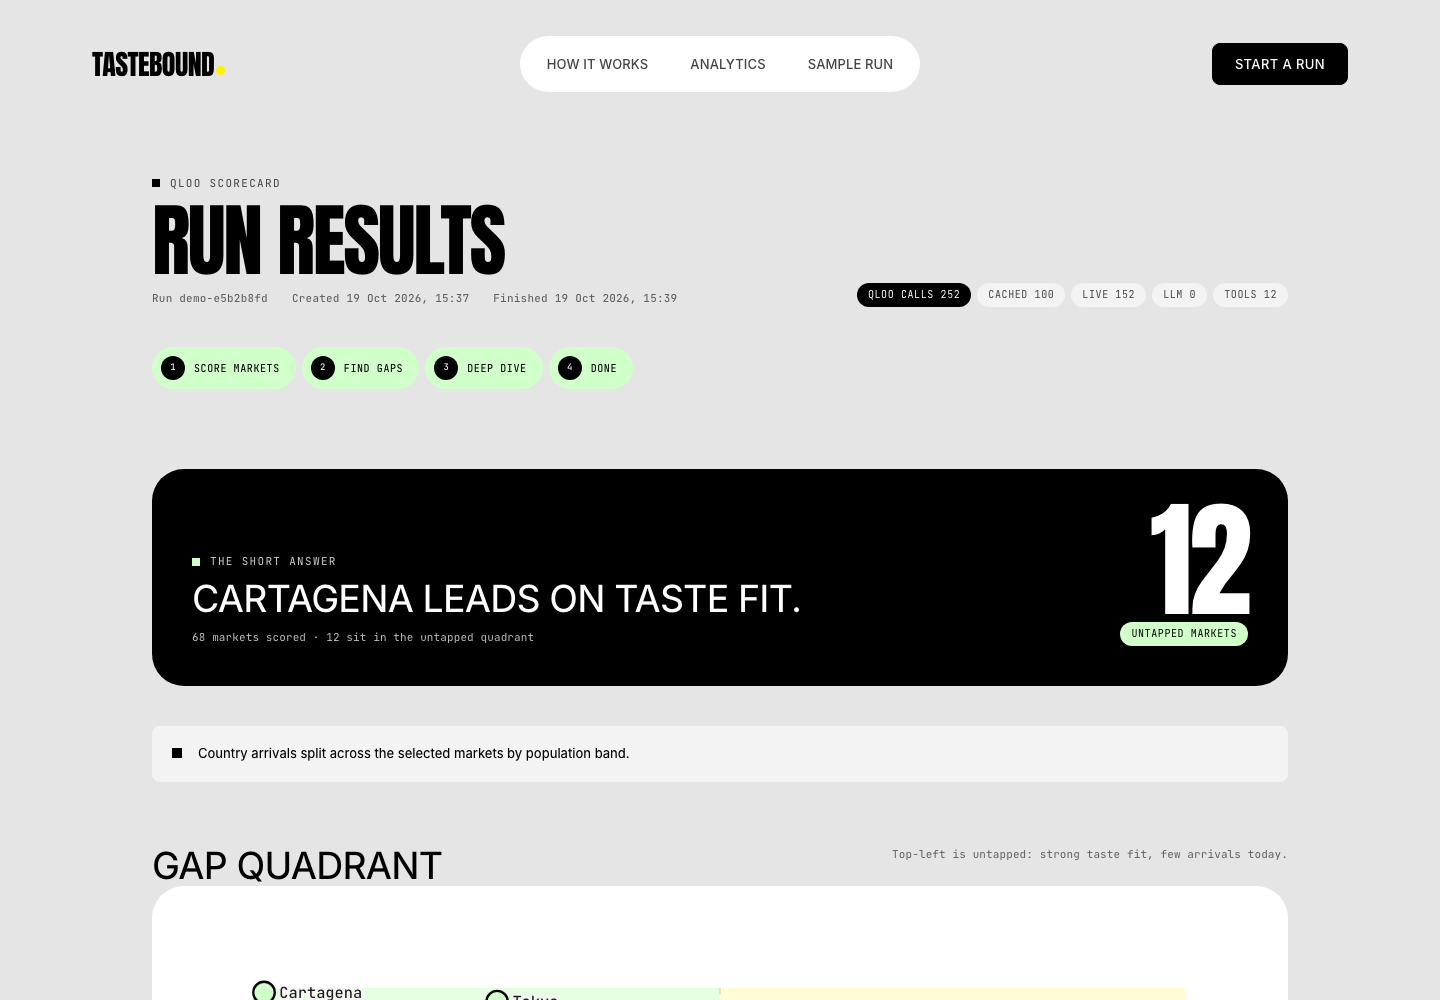
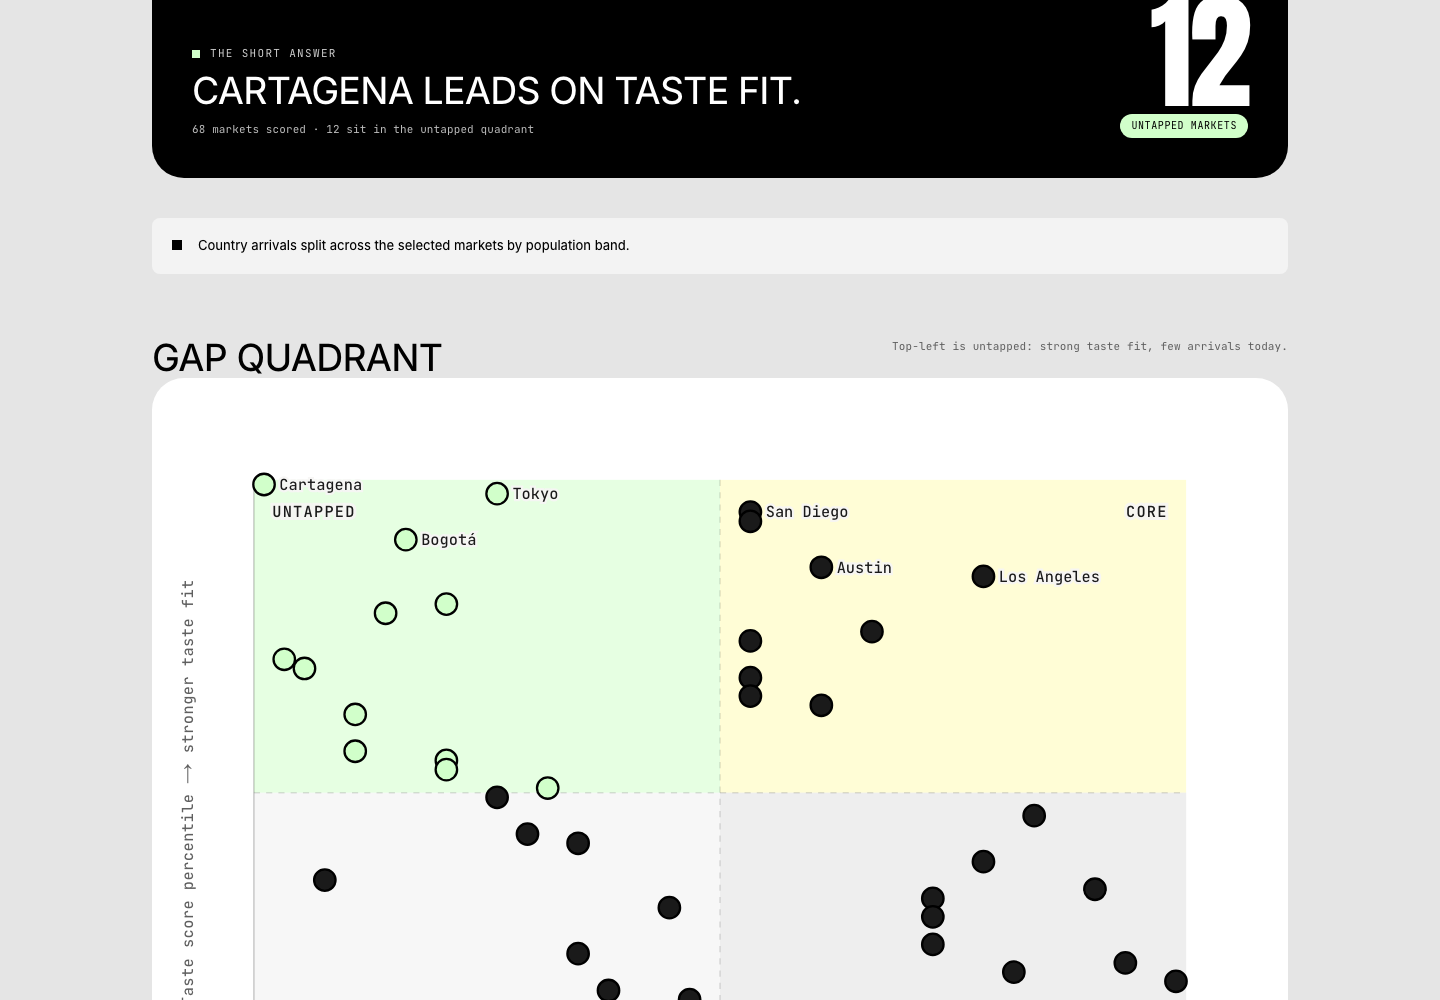
docs: refresh README hero and proof screenshots [SUB]

diff --git a/README.md b/README.md
@@ -1,58 +1,72 @@
 <p align="center">
-  <img src="assets/readme/hero.svg" alt="TasteBound — find the markets that already share your taste. A gap quadrant shows Cartagena as the top untapped market." width="900">
+  <img src="assets/readme/hero.svg" alt="TasteBound — find the markets that already share your taste. A Lisbon demo card shows Cartagena, Tokyo and Bogotá in the untapped quadrant." width="900">
 </p>
 
-**TasteBound** builds a Qloo taste profile for a destination, scores origin markets by **taste lift over a popularity baseline**, compares that with your **real visitor arrivals** — and shows you the **untapped markets** that already love what the destination offers but are not visiting yet. For each market it produces audiences, a campaign angle with evidence, media partners and a budget split.
+<p align="center">
+  <sub><strong>Qloo Agentic Hackathon 2026</strong> · Next.js · FastAPI · Supabase · Ollama Cloud · MIT</sub>
+</p>
 
-Every score, gap, audience and partner comes from Qloo through deterministic code; the LLM proposes item names and writes briefs that must pass a grounding validator, and every fallback is labelled. Every number links back to the Qloo call that produced it.
+**TasteBound** finds the origin markets that already share a destination's taste but are not visiting yet. It builds a Qloo taste profile, scores every origin market by **taste lift over a popularity baseline**, subtracts **your visitor arrivals**, and turns the gap into audiences, campaign angles, media partners, a budget split and grounded briefs.
 
-Built for the **Qloo Agentic Hackathon 2026**. **Taste fit, not a visitor forecast** — no demand claims, no black boxes.
+**Taste fit, not a visitor forecast.** Qloo decides; the LLM narrates. Scores, gaps, audiences, angle evidence and partners are pure functions over Qloo responses. The LLM only proposes item names and writes prose that passes a grounding validator, and every fallback is labelled.
 
 <p align="center">
-  <a href="#quickstart">Quickstart</a> ·
+  <a href="#quickstart"><strong>Run the local sample</strong></a> ·
   <a href="docs/17-judging.md">Judging notes</a> ·
   <a href="docs/16-runbook.md">Runbook</a> ·
-  <a href="docs/DESIGN.md">Design</a>
+  <a href="docs/DESIGN.md">Design system</a>
 </p>
 
 ## The gap quadrant
 
 Taste score on one axis, arrivals share on the other. **Untapped** markets sit top-left: strong taste fit, few visitors today. Click any point to open the full market brief.
 
+**Sample run:** 68 markets scored, 12 in the untapped quadrant. Cartagena ranks #1 with a taste score of **99.26** and a **+98.2-point** arrivals gap.
+
 <p align="center">
-  <img src="assets/readme/02-results.png" alt="TasteBound run results: live Qloo call counter, phase progress, and the gap quadrant with Cartagena, Tokyo and Bogotá in the untapped quadrant." width="900">
+  <img src="assets/readme/02-results.png" alt="Gap quadrant for the Lisbon demo run. Cartagena, Tokyo and Bogotá sit in the untapped quadrant; San Diego, Austin and Los Angeles sit in core." width="900">
 </p>
 
 ## What a market gives you
 
-Taste score, lift, coverage and a plain-language confidence explainer; arrivals share, percentile and gap; an audience chart from Qloo demographics; a campaign angle where each claim carries an evidence chip; partner tabs; global brands.
+Taste score, lift, coverage and a plain-language confidence explainer; arrivals share, percentile and gap; a Qloo demographics audience chart; a campaign angle where each claim carries an evidence chip; partner tabs; global brands.
 
 <p align="center">
-  <img src="assets/readme/03-market.png" alt="Market detail for Cartagena: taste score 99.26, lift +0.0299, 100% coverage, high confidence, arrivals gap +98.2 points, and an audience chart." width="900">
+  <img src="assets/readme/03-market.png" alt="Cartagena market brief: taste score 99.26, lift +0.0299, 100% coverage, high confidence, an arrivals gap of +98.2 points, and a Qloo audience breakdown." width="900">
 </p>
 
 ## Plan the spend
 
-Split a budget across markets with locks; briefs are editable, labelled `template` or `model-written`, and export as Markdown. The whole run exports as CSV.
+Split a budget across markets with locks; each market's share is weighted by taste score, confidence and the untapped gap. Briefs are editable, labelled `template` or `model-written`, and export as Markdown. The full run exports as CSV.
 
 <p align="center">
-  <img src="assets/readme/04-plan.png" alt="Plan screen: budget input, mode toggle, per-market shares with locks, and editable briefs with evidence chips." width="900">
+  <img src="assets/readme/04-plan.png" alt="Budget and briefs screen: €250,000 allocated across six markets, with Cartagena receiving 24.05% and a per-market lock control." width="900">
+</p>
+
+## Audit every call
+
+Every run writes an ordered, timestamped trace of Qloo, tool and LLM rows, with parameters and cache status; every number links back to the Qloo calls that produced it. The stored demo is deterministic, so its 268 events are Qloo and tool calls; live runs record LLM rows when quota is available.
+
+<p align="center">
+  <img src="assets/readme/05-trace.png" alt="Trace audit log for the Lisbon demo: 252 Qloo calls, 16 tool calls, 0 LLM calls, 268 total events, with filterable rows showing build_profile and destination_search." width="900">
 </p>
 
 ## How it works
 
-1. **Profile** — you name a destination and add signature items (or let TasteBound suggest them from the website). Each item resolves to a real Qloo entity; unresolved items are listed, not hidden.
-2. **Score** — for each origin market, TasteBound fetches Qloo affinity for the destination's entity and its top explainability entities, then queries the same markets again **without** the destination signals to get a per-market baseline, and computes **lift = target affinity − baseline affinity**. The taste score is the percentile of lift across the run — a ranking, not a fake absolute.
-3. **Gap** — your arrivals CSV (or a bundled sample) is matched to markets; the gap quadrant and table compare taste percentile against arrivals percentile. Population correlation is checked and flagged when the ranking may track market size.
-4. **Deep dive** — audiences, angle evidence and media partners for the shortlist, then briefs and a budget split weighted by taste score, confidence and the untapped gap.
+1. **Profile** — name a destination and add its signature items, or let TasteBound suggest them from the official website. Each item resolves to a real Qloo entity; unresolved items are listed, not hidden.
+2. **Score** — for each origin market, fetch Qloo affinity for the destination's entity and its top explainability entities, then query the same markets again **without** the destination signals to get a per-market baseline. **Lift = target affinity − baseline affinity.** The taste score is the percentile of lift across the run — a ranking, not an absolute.
+3. **Gap** — match your arrivals CSV (or the bundled sample) to markets. The gap quadrant and table compare taste percentile against arrivals percentile. Population correlation is checked and flagged when the ranking may track market size.
+4. **Deep dive** — build audiences, angle evidence and media partners for the shortlist, then split a budget weighted by taste score, confidence and the untapped gap.
 
-Three rules above everything:
-
-1. **Qloo decides; the LLM narrates.** The LLM proposes item names and writes prose that passes a grounding validator; scores, gaps, audiences, angle evidence and partners are pure functions over Qloo responses.
-2. **Verify before building.** Every Qloo parameter and response field was recorded from live calls in Phase 0 (`docs/qloo-contract.md`), not guessed.
-3. **Fail closed.** Without Qloo the run fails with `qloo_unconfigured` and zero partial ranking — a tested feature, not an error path.
+> **Qloo decides; the LLM narrates.** Scores, gaps, audiences, angle evidence and partners are pure functions over Qloo responses. The LLM proposes item names and writes prose that passes a grounding validator.
+>
+> **Verify before building.** Every Qloo parameter and response field was recorded from live calls in Phase 0 (`docs/qloo-contract.md`), not guessed.
+>
+> **Fail closed.** Without Qloo the run fails with `qloo_unconfigured` and zero partial ranking — a tested feature, not an error path.
 
 ## Quickstart
+
+Requires Node 24+, pnpm, Python 3.12+ and uv, plus a Qloo key for live runs.
 
 ```bash
 pnpm install
@@ -60,7 +74,7 @@ pnpm install
 
 # apps/api/.env
 #   QLOO_API_KEY=...            # required for real runs
-#   OLLAMA_API_KEY=...          # optional; without it briefs are labelled templates
+#   OLLAMA_API_KEY=...          # optional; without quota, briefs stay labelled templates
 
 pnpm turbo dev                   # web :3000, api :8000 (SQLite, auto-migrated and seeded)
 ```
@@ -71,17 +85,18 @@ Key-by-key setup, run and deploy instructions: [`docs/19-setup.md`](docs/19-setu
 
 ```bash
 (cd apps/api && uv run pytest -m "not live")   # 48 tests, no network
-pnpm turbo lint test build
+pnpm turbo lint check-types build
 ```
 
 ## Project layout
 
 ```
-apps/api     FastAPI: Qloo client (rate limit, cache, budgets), scoring, arrivals, agent, HTTP API
-apps/web     Next.js: landing, 4-step wizard, results, market detail, plan, trace, sample
-packages/contracts   TypeScript types generated from the API's OpenAPI schema
-docs/        the full documentation pack (product, Qloo integration, API, tests, runbook)
-scripts/     smoke and accessibility checks (Playwright + axe)
+apps/api            FastAPI: Qloo client (rate limit, cache, budgets), scoring, arrivals, agent, HTTP API
+apps/web            Next.js: landing, 4-step wizard, results, market detail, plan, trace, sample
+packages/contracts  TypeScript types generated from the API's OpenAPI schema
+assets/readme       README hero and screenshots
+docs/               the full documentation pack (product, Qloo integration, API, tests, runbook)
+scripts/            screenshot, smoke and accessibility checks (Playwright + axe)
 ```
 
 ## Honest by default
@@ -94,22 +109,23 @@ scripts/     smoke and accessibility checks (Playwright + axe)
 
 ## Documentation
 
-| Start here | Then |
-|---|---|
-| [`docs/00-product-brief.md`](docs/00-product-brief.md) | Problem, users, value, metrics |
-| [`docs/04-qloo-integration.md`](docs/04-qloo-integration.md) | How Qloo is used: multi-call chain, strategies, baseline, budget, kill switch |
-| [`docs/05-agent-and-llm.md`](docs/05-agent-and-llm.md) | Agent tools, Ollama Cloud, provider portability |
-| [`docs/07-api-spec.md`](docs/07-api-spec.md) · [`docs/08-frontend-spec.md`](docs/08-frontend-spec.md) | API endpoints · screens and states |
-| [`docs/12-acceptance-criteria.md`](docs/12-acceptance-criteria.md) · [`docs/13-test-plan.md`](docs/13-test-plan.md) | Numbered criteria · how they are tested |
-| [`docs/16-runbook.md`](docs/16-runbook.md) · [`docs/17-judging.md`](docs/17-judging.md) | Setup, run, deploy · judging rules and demo script |
-| [`docs/progress.md`](docs/progress.md) · [`docs/18-risks-and-decisions.md`](docs/18-risks-and-decisions.md) | Live status · decisions and risks |
+| Start here                                                                   | Then                                                        |
+| ---------------------------------------------------------------------------- | ----------------------------------------------------------- |
+| [Product brief](docs/00-product-brief.md)                                    | Problem, users, value, metrics                              |
+| [Qloo integration](docs/04-qloo-integration.md)                              | Multi-call chain, strategies, baseline, budget, kill switch |
+| [Agent & LLM](docs/05-agent-and-llm.md)                                      | Agent tools, Ollama Cloud, provider portability             |
+| [API & frontend](docs/07-api-spec.md) · [screens](docs/08-frontend-spec.md)  | Endpoints · screens and states                              |
+| [Acceptance](docs/12-acceptance-criteria.md) · [tests](docs/13-test-plan.md) | Numbered criteria · how they are tested                     |
+| [Runbook](docs/16-runbook.md) · [judging](docs/17-judging.md)                | Setup, run, deploy · judging rules and demo script          |
+| [Status](docs/progress.md) · [decisions](docs/18-risks-and-decisions.md)     | Live status · decisions and risks                           |
 
 ## Limits
 
 - Taste scores rank markets **within a run**; they are percentiles of Qloo affinity lift, not calibrated demand estimates.
 - Audience demographics come from Qloo and need a taste signal; they are affinity deltas, not census data.
 - The bundled arrivals sample is illustrative (Statista/INE-informed), labelled as such everywhere it appears.
-- Orchestration is deterministic by design: tool choice stays in code, and the LLM proposes item names and writes grounded briefs when a key is present. The Ollama Cloud tool-calling loop is spec'd behind the provider layer but disabled (`LLM_TOOL_CALLING=false`) until tool calling is verified live; `/health` reports `tools_ok` accordingly.
+- Orchestration is deterministic by design: tool choice stays in code, and the LLM proposes item names and writes grounded briefs when quota is available. The Ollama Cloud tool-calling loop is spec'd behind the provider layer but disabled (`LLM_TOOL_CALLING=false`) until tool calling is verified live; `/health` reports `tools_ok` accordingly.
+- The free Ollama key hit its quota during the build, so the stored demo's briefs are templates. The sample remains fully usable without keys.
 
 ## License
 

diff --git a/docs/progress.md b/docs/progress.md
@@ -30,6 +30,7 @@ Updated 2026-10-20. Phases per `docs/11-plan.md`.
 | SUB | Final polish: wrapped hero highlight no longer overlaps (band highlight + line-height), completed runs no longer show a stale "streaming" badge, README screenshots regenerated at 1440×1000 without the Playwright animation artifact | `globals.css`, `CallCounter.tsx`, `scripts/readme-shots.mjs`; web lint/check-types/build pass; smoke 6/6; axe 0 violations |
 | SUB | API/LLM cleanup: Ollama base URL corrected to `https://ollama.com/v1` (`ollama.ai` redirects and returns 405), unreachable iterative-agent scaffolding removed; live probe reached the API but hit the free-limit 429; docs updated | `settings.py`, `.env.example`, `docs/18-risks-and-decisions.md`, `docs/llm-contract.md`; ruff/format/mypy clean, pytest 48 passed |
 | SUB | Kill-switch rehearsal verified: invalid QLOO_API_KEY → run fails with `qloo_auth`, zero counters, empty shortlist; pre-demo checks all ticked | docs/14-checks.md Pre-demo |
+| SUB | README beautified in the current Anton/Inter/mint system: new pure-SVG hero, scrolled gap-quadrant capture, trace proof, accurate image text, tightened copy; skill audit and Prettier pass | `README.md`, `assets/readme/hero.svg`, `assets/readme/02-results.png`, `scripts/readme-shots.mjs` |
 
 ## Acceptance status (live-verified, not yet test-coded)
 
@@ -40,11 +41,10 @@ Updated 2026-10-20. Phases per `docs/11-plan.md`.
 ## Blockers
 
 - **Ollama Cloud free tier exhausted** → tool calling remains unverified and LLM-written briefs fall back to templates. The free key is authenticated but returns 429; there is no paid plan. This is a documented limitation, not a submission blocker: `LLM_TOOL_CALLING` stays `false`, the deterministic planner runs, and no tool-choice claim is made.
-- **External deployment not started** → no Vercel/Render/Fly/Railway/Supabase credentials or CLIs in this session; `gh` is authenticated but cannot host the app. Needs user auth or a provider choice, plus the production env vars.
-- **No Supabase CLI locally** → local runs use SQLite; the hosted deploy still targets Supabase Cloud.
+- **External deployment intentionally skipped** → the user chose “Skip deployment for now” on 2026-10-20. No hosted demo URL exists; the public repo and local sample are the submission surface. Revisit only if the user reverses this decision.
+- **No Supabase CLI locally** → local runs use SQLite; a future hosted deploy would target Supabase Cloud.
 
 ## Next
 
-1. User-side: authenticate a host (Vercel for web; Render/Fly/Railway for the API) and provide the Supabase project, or approve preparing provider configs. Then deploy, seed the demo, set `NEXT_PUBLIC_API_URL`/`CORS_ORIGINS`, and run smoke + axe against the deployed URL.
-2. File the Devpost entry with the live demo URL; confirm the public repo and licence are visible. Video is not required by the rules.
-3. If the free quota resets or a paid key is provided: verify tool calling, record it in `docs/llm-contract.md`, then (only then) consider enabling `LLM_TOOL_CALLING`. Otherwise submit with deterministic orchestration, as documented.
+1. User-side: file the Devpost entry with the public repo URL and the local-sample instructions; confirm the licence is visible. Hosted deployment is intentionally skipped. Video is not required by the rules.
+2. If the free quota resets or a paid key is provided: verify tool calling, record it in `docs/llm-contract.md`, then (only then) consider enabling `LLM_TOOL_CALLING`. Otherwise submit with deterministic orchestration, as documented.

diff --git a/JUDGING_REPORT.md b/JUDGING_REPORT.md
@@ -57,7 +57,7 @@ Protocol: `docs/judge.md`. Inputs reviewed: repository at `/Users/ombadgujar/Dev
 | # | Claim | Source | Result | Evidence |
 |---|---|---|---|---|
 | 1 | Scores come from Qloo, not the LLM | README, docs | **VERIFIED** | `scoring/markets.py`; kill-switch test; run trace |
-| 2 | Taste score is percentile of lift over a per-market popularity baseline | README:45,107 | **VERIFIED** | `scoring/markets.py:47-63,81`; baseline call in `qloo/service.py:640-676`; demo population corr 0.026 |
+| 2 | Taste score is percentile of lift over a per-market popularity baseline | README §How it works, §Limits | **VERIFIED** | `scoring/markets.py:47-63,81`; baseline call in `qloo/service.py:640-676`; demo population corr 0.026 |
 | 3 | Different destinations produce different rankings | README, docs | **VERIFIED live** | Kyoto/APAC-15 top five: Mumbai 96.7, Delhi 90.0, Kuala Lumpur 83.3, Sydney 76.7, Auckland 70.0; Lisbon: Cartagena 99.26, Tokyo 97.8, Kuala Lumpur 96.3, San Diego 94.9, Seattle 93.4 |
 | 4 | Gap combines taste with real arrivals | README | **VERIFIED, with honesty caveat** | `scoring/gap.py`; arrival source notes shown; bundled sample is `is_illustrative: true` |
 | 5 | Audiences, angles, partners per market come from location-aware Qloo calls | docs | **VERIFIED** | Audience `source_call_id`; angle evidence chips; partner rows in `market_partners`; partner lists differ by market |

diff --git a/AGENTS.md b/AGENTS.md
@@ -37,7 +37,7 @@ Read `README.md`, then `docs/` in numbered order and `docs/features/`, before wr
 ```bash
 pnpm install && (cd apps/api && uv sync)
 pnpm turbo dev
-pnpm turbo lint test build
+pnpm turbo lint check-types build
 (cd apps/api && uv run pytest -m "not live")
 (cd apps/api && uv run python scripts/export_openapi.py)   # then regenerate packages/contracts
 supabase db reset
